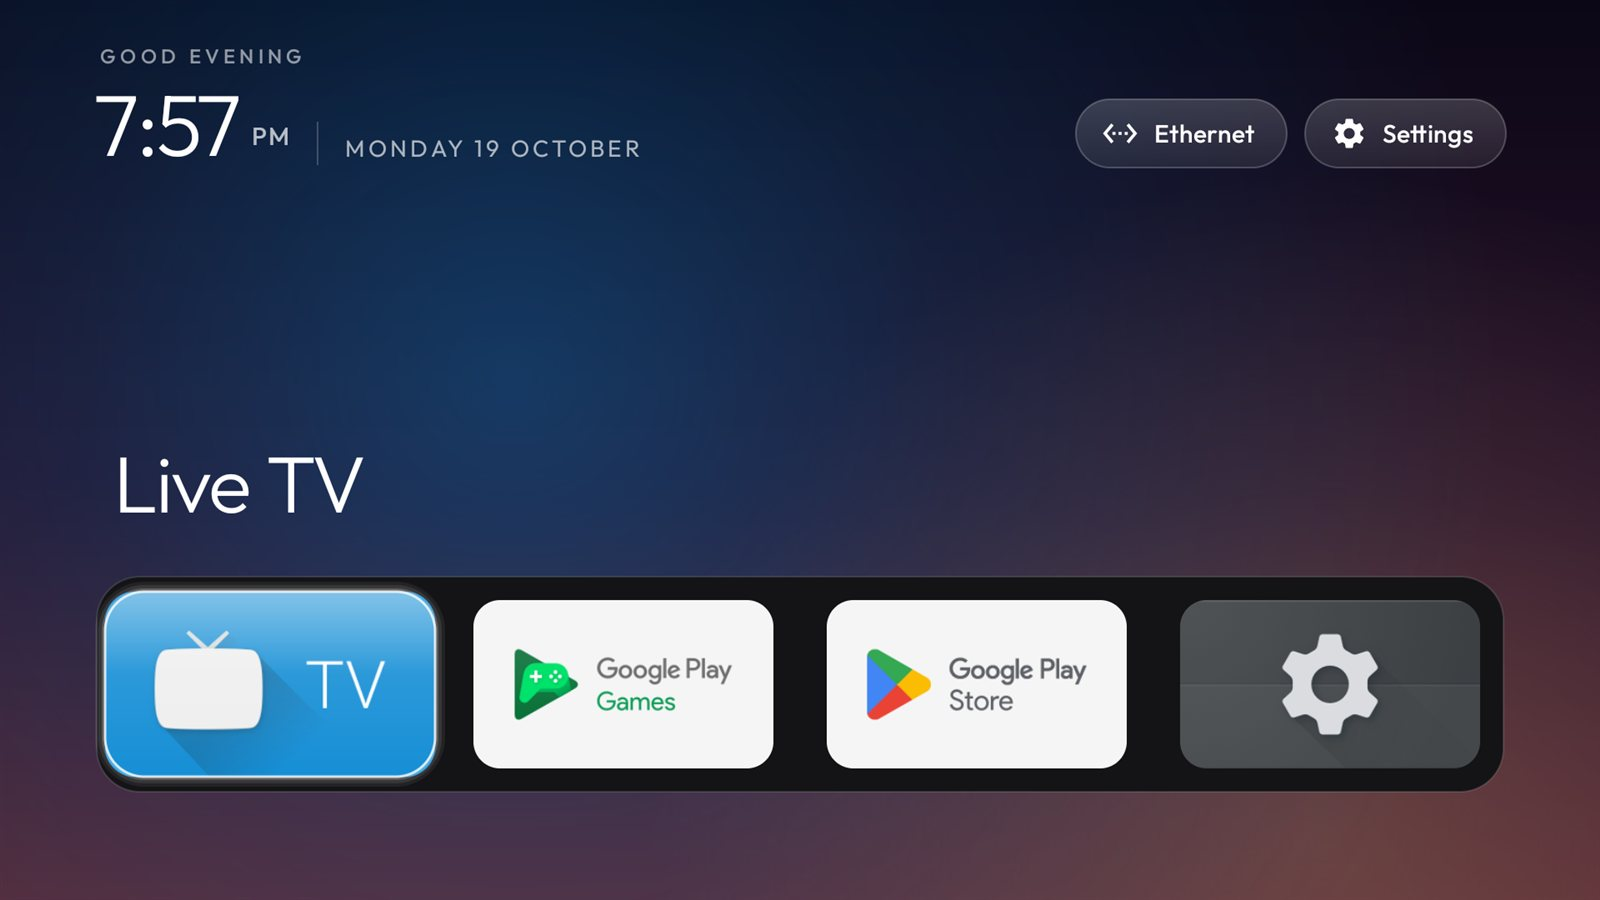
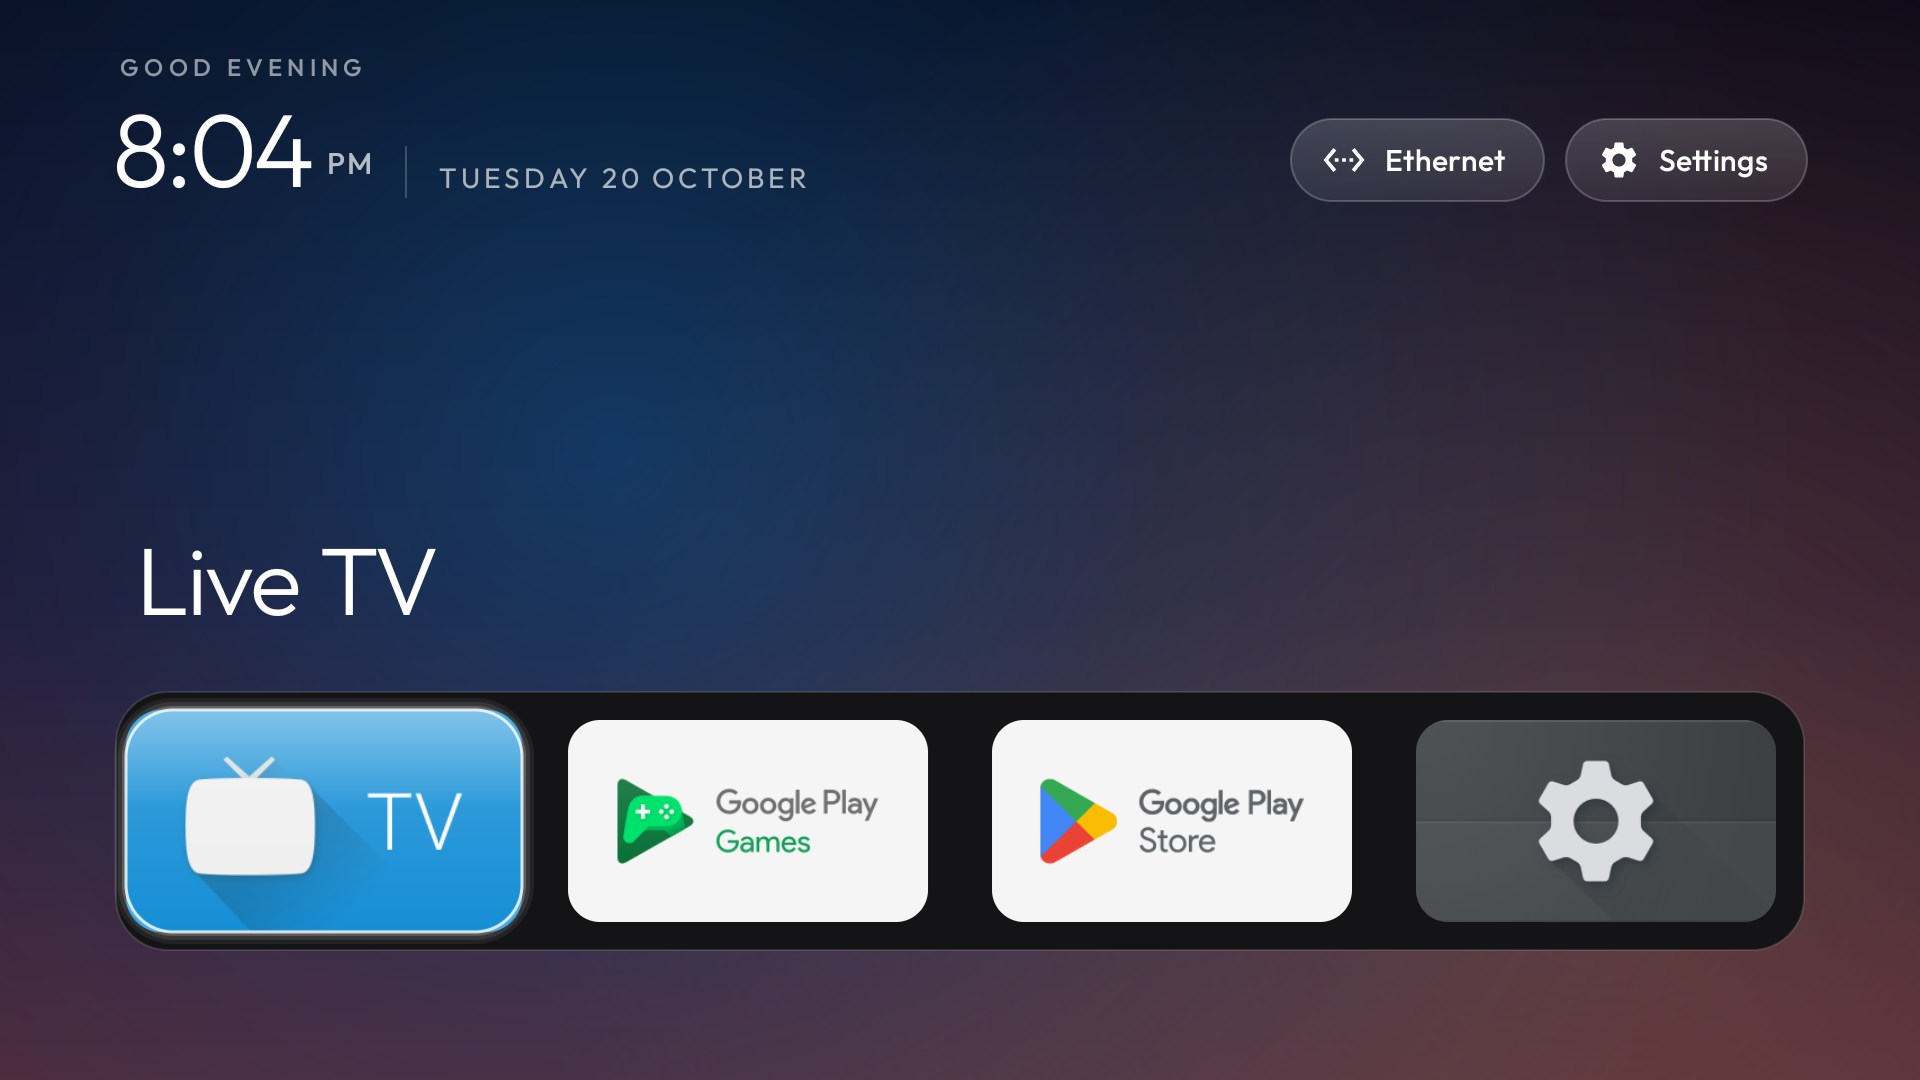
sky: lift the evening glow above the dock
The glow sat at 94% of the backdrop height, inside the dock band on a 1080p screen, so only its top edge showed. Centring it at 80% and widening the radius by about 30% keeps it above the tiles while staying clear of the header. Follow-up to #231.

Changed region(s): [[0.0625, 0.0933, 0.1875, 0.1867], [0.1875, 0.1556, 0.4375, 0.1867]]

diff --git a/launcher/app/src/main/java/com/gathin/tvhome/SkyView.java b/launcher/app/src/main/java/com/gathin/tvhome/SkyView.java
@@ -88,7 +88,7 @@ public class SkyView extends View {
             // A warm core low on the horizon, where the sun (or its afterglow) sits.
             int warm = Sky.lerpColor(sky.bottom, 0xFFFFD9A0, 0.65f);
             paint.setShader(new RadialGradient(
-                    sky.sunX * TEX_W, TEX_H * 0.94f, TEX_W * 0.42f,
+                    sky.sunX * TEX_W, TEX_H * 0.80f, TEX_W * 0.55f,
                     new int[]{(sky.sun << 24) | (warm & 0x00FFFFFF), warm & 0x00FFFFFF},
                     new float[]{0f, 1f}, Shader.TileMode.CLAMP));
             canvas.drawRect(0f, 0f, TEX_W, TEX_H, paint);

diff --git a/docs/sky.md b/docs/sky.md
@@ -8,7 +8,7 @@ launcher built from this repository behaves exactly like before until a theme tu
 { "sky_intensity": 60 }
 ```
 
-![The backdrop at dusk, a few minutes before eight](sky-sunset.jpg)
+![The backdrop at dusk](sky-sunset.jpg)
 
 Push that as a theme's `config.json` and restart Home:
 
